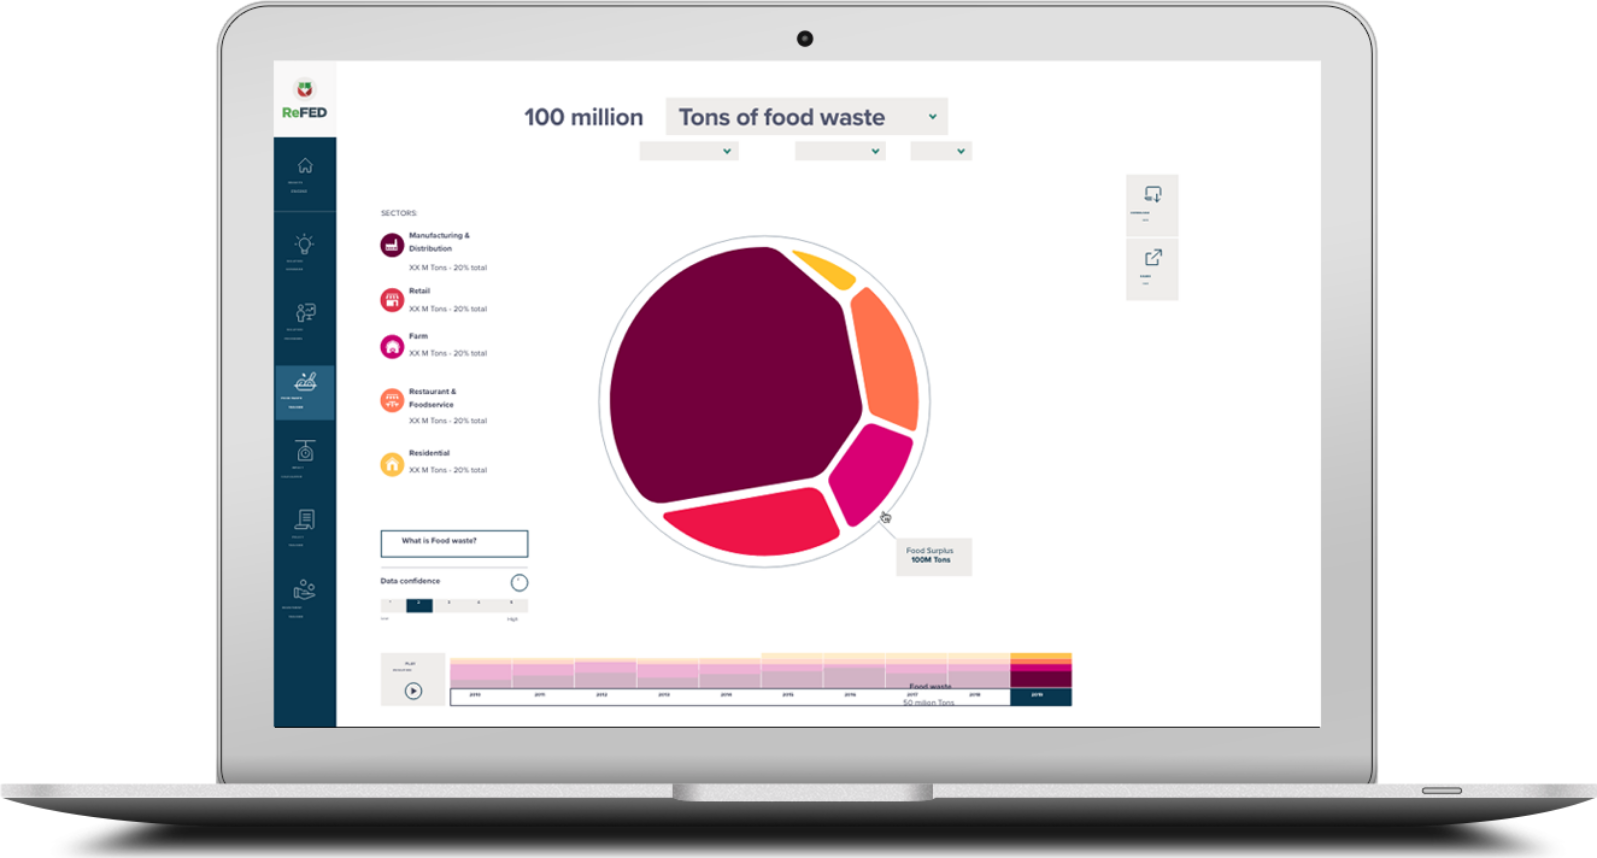
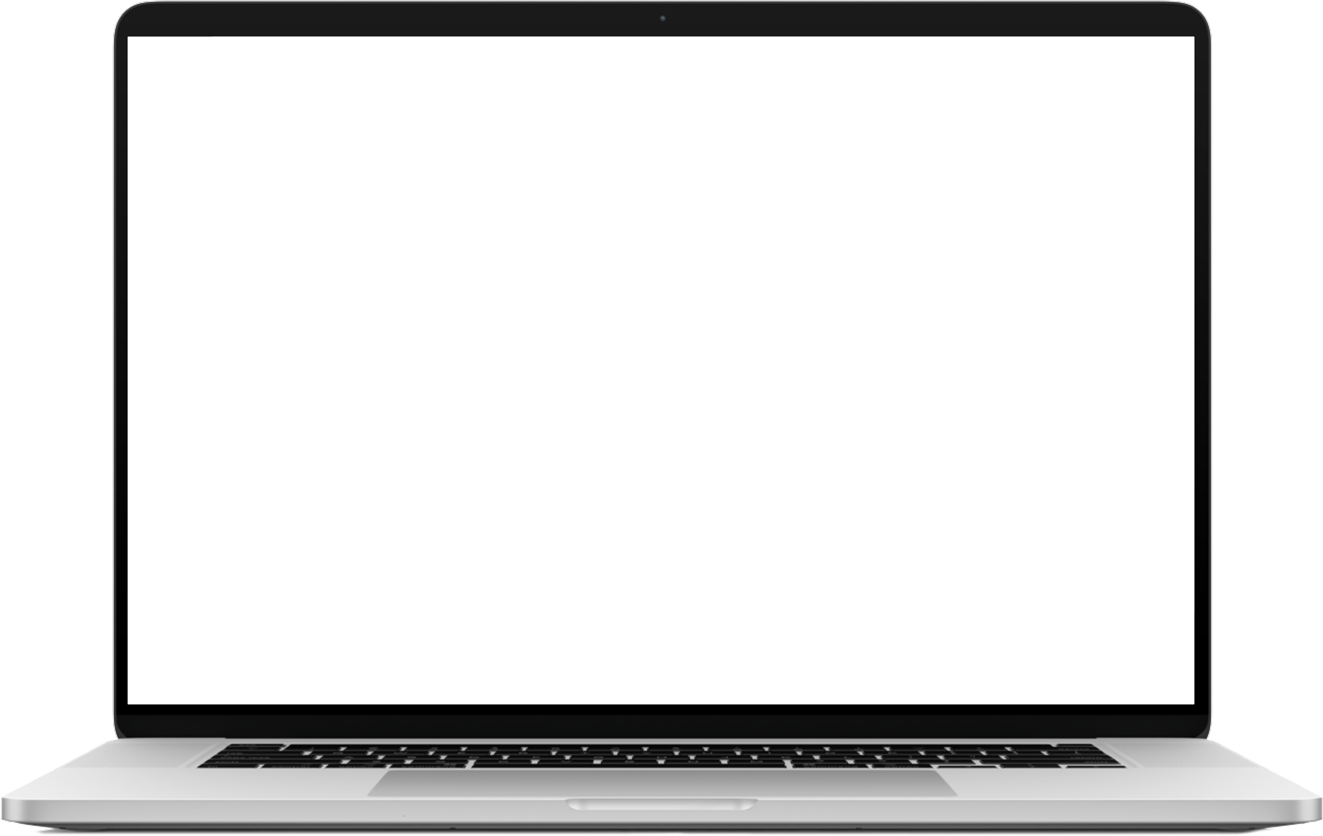
added Insigts Engine with Laptop section

diff --git a/src/sandbox/paul.html b/src/sandbox/paul.html
@@ -1,6 +1,20 @@
 ---
 layout: default
 author: Eileen Hyde
+
+insights_engine:
+  preheader: Our Newest Solution
+  headline: ReFED Insights Engine
+  text: >-
+    ReFED Insights Engine is an online data center designed to serve as the next 
+    generation of data, insights, and guidance on U.S. food waste. With more granular 
+    data, more extensive analysis, more customized views, and the ability to be 
+    updated regularly, we see this tool as laying the foundation for action around 
+    our 2030 national goal to reduce food waste by 50 percent.
+  link:
+  link_label: Launch ReFED Insights Engine
+  laptop_screen_image: /img/laptop-screen-fpo.jpg
+
 testimonials:
   - text: >-
       Lorem ipsum dolor sit amet, consectetur adipiscing elit. Integer nec
@@ -46,6 +60,22 @@ testimonials:
 ---
 
 <section class="pb-0">
+  <div class="container">
+    <div class="row">
+      <div class="col-12">
+        <h1>Insights Engine</h1>
+      </div>
+    </div>
+  </div>
+</section>
+
+{% include sections/insights_engine.html data=page.insights_engine id='refed-insights-engine' %}
+
+
+
+
+
+<section class="pb-0">
     <div class="container">
       <div class="row">
         <div class="col-12">
@@ -59,11 +89,5 @@ testimonials:
   {% assign id = forloop.index | prepend:'testimonial-' %}
   {% include sections/testimonial.html testimonial=testimonial id=id %}
 {% endfor %}    
-
-
-
-  
-
-
 
 

diff --git a/src/_scss/sections/_insights_engine.scss b/src/_scss/sections/_insights_engine.scss
@@ -1,0 +1,67 @@
+
+
+/* This section of CSS just places the screen inside of the laptop. It could potentially be used outside of the insights_engine section. */
+.laptop-container{
+    width:100%;
+    position:relative;
+    .laptop{
+        position:relative;
+        width:100%;
+        height:0;
+        padding-bottom:63.19%;
+        z-index: 1;
+        img{
+            width:100%;
+        }
+    }
+    .screen{
+        top:0;
+        left:0;
+        z-index: 0;
+        position:absolute;
+        width: 80.7%;
+        height: 80%;
+        left: 9.6%;
+        top: 4.4%;
+        object-fit: cover;
+        object-position: left top;
+    }
+}
+
+
+
+
+.laptop-module{
+  .image-column{  
+    .laptop-container{
+      bottom: -60px;
+      width: 175%;
+      position: absolute;
+    }
+  }
+  &.laptop-module--within-top-bounds img{
+    bottom: unset;
+    margin-top: 30px;
+  }
+  @media screen and (max-width: $screen-lg-min){
+
+
+    margin-top: 14%;
+    .copy-column{
+      //order:2;     
+    }
+    .image-column{   
+      //order:1;  
+      .laptop-container{
+        position: relative;
+        width: 150%;
+        bottom: 0;
+        //margin-top: -17%;
+        margin-left: auto;
+        margin-right: auto;         
+      }   
+    }
+      
+  }
+}
+

diff --git a/src/_includes/sections/insights_engine.html b/src/_includes/sections/insights_engine.html
@@ -1,0 +1,24 @@
+
+  
+<section class="insights-engine laptop-module bg-light overflow-x-hidden" id="{{ include.id }}">
+  <div class="container solutions-featured">
+    <div class="row">
+    <div class="col-lg-6 rightcolumn copy-column py-5">
+        <h3 class="preheader">{{ include.data.preheader }}</h3>
+        <h2>{{ include.data.headline }}</h2>
+        <p>{{ include.data.text }}</p>
+        <a href="{{ site.insights_engine_url }}" class="btn btn-secondary p-3">{{ include.data.link_label }}</a>
+    </div>
+    <div class="col-lg-6 leftcolumn image-column ">
+        <div class="laptop-container">
+          <div class="laptop">
+            <img src="/img/laptop.png" alt="Laptop" />
+          </div>
+          <img class="screen" src="{{ include.data.laptop_screen_image }}" alt="Laptop Screen showing {{ include.data.headline }}" />
+        </div>
+    </div>
+    </div>
+  </div>
+</section>
+  
+  

diff --git a/src/_scss/modules/_large_image_beyond_bounds_module.scss b/src/_scss/modules/_large_image_beyond_bounds_module.scss
@@ -1,4 +1,4 @@
-.laptop-module,
+
 .globe-module,
 .strawberries-module{
   .image-column img {
@@ -19,30 +19,6 @@
     }
     .copy-column{
       order:2;     
-    }
-  }
-}
-
-.laptop-module{
-  .image-column{        
-    img{
-      bottom: -60px;
-      width: 175%;
-    }
-  }
-  &.laptop-module--within-top-bounds img{
-    bottom: unset;
-    margin-top: 30px;
-  }
-  @media screen and (max-width: $screen-md-min){
-    margin-top: 14%;
-    .image-column{     
-      img{
-        width: 180%;
-        margin-top: -26%;
-        margin-left: -1%;
-        margin-bottom: rem(10);
-      }
     }
   }
 }

diff --git a/src/index.html b/src/index.html
@@ -100,7 +100,7 @@ carousel_testimonial:
     </div>
   </div>
 </section>
-{% include modules/insights-engine-cta.html %}
+{% include sections/insights_engine.html %}
 <section class="bg-primary text-white">
   <div class="container">
     <div class="row">

diff --git a/src/_scss/main.scss b/src/_scss/main.scss
@@ -38,6 +38,7 @@
 @import "sections/carousels/carousel_logos";
 @import "sections/carousels/carousel_hero";
 @import "sections/carousels/carousel_testimonials";
+@import "sections/insights_engine";
 
 @import "nav/primary";
 @import "nav/utility";
